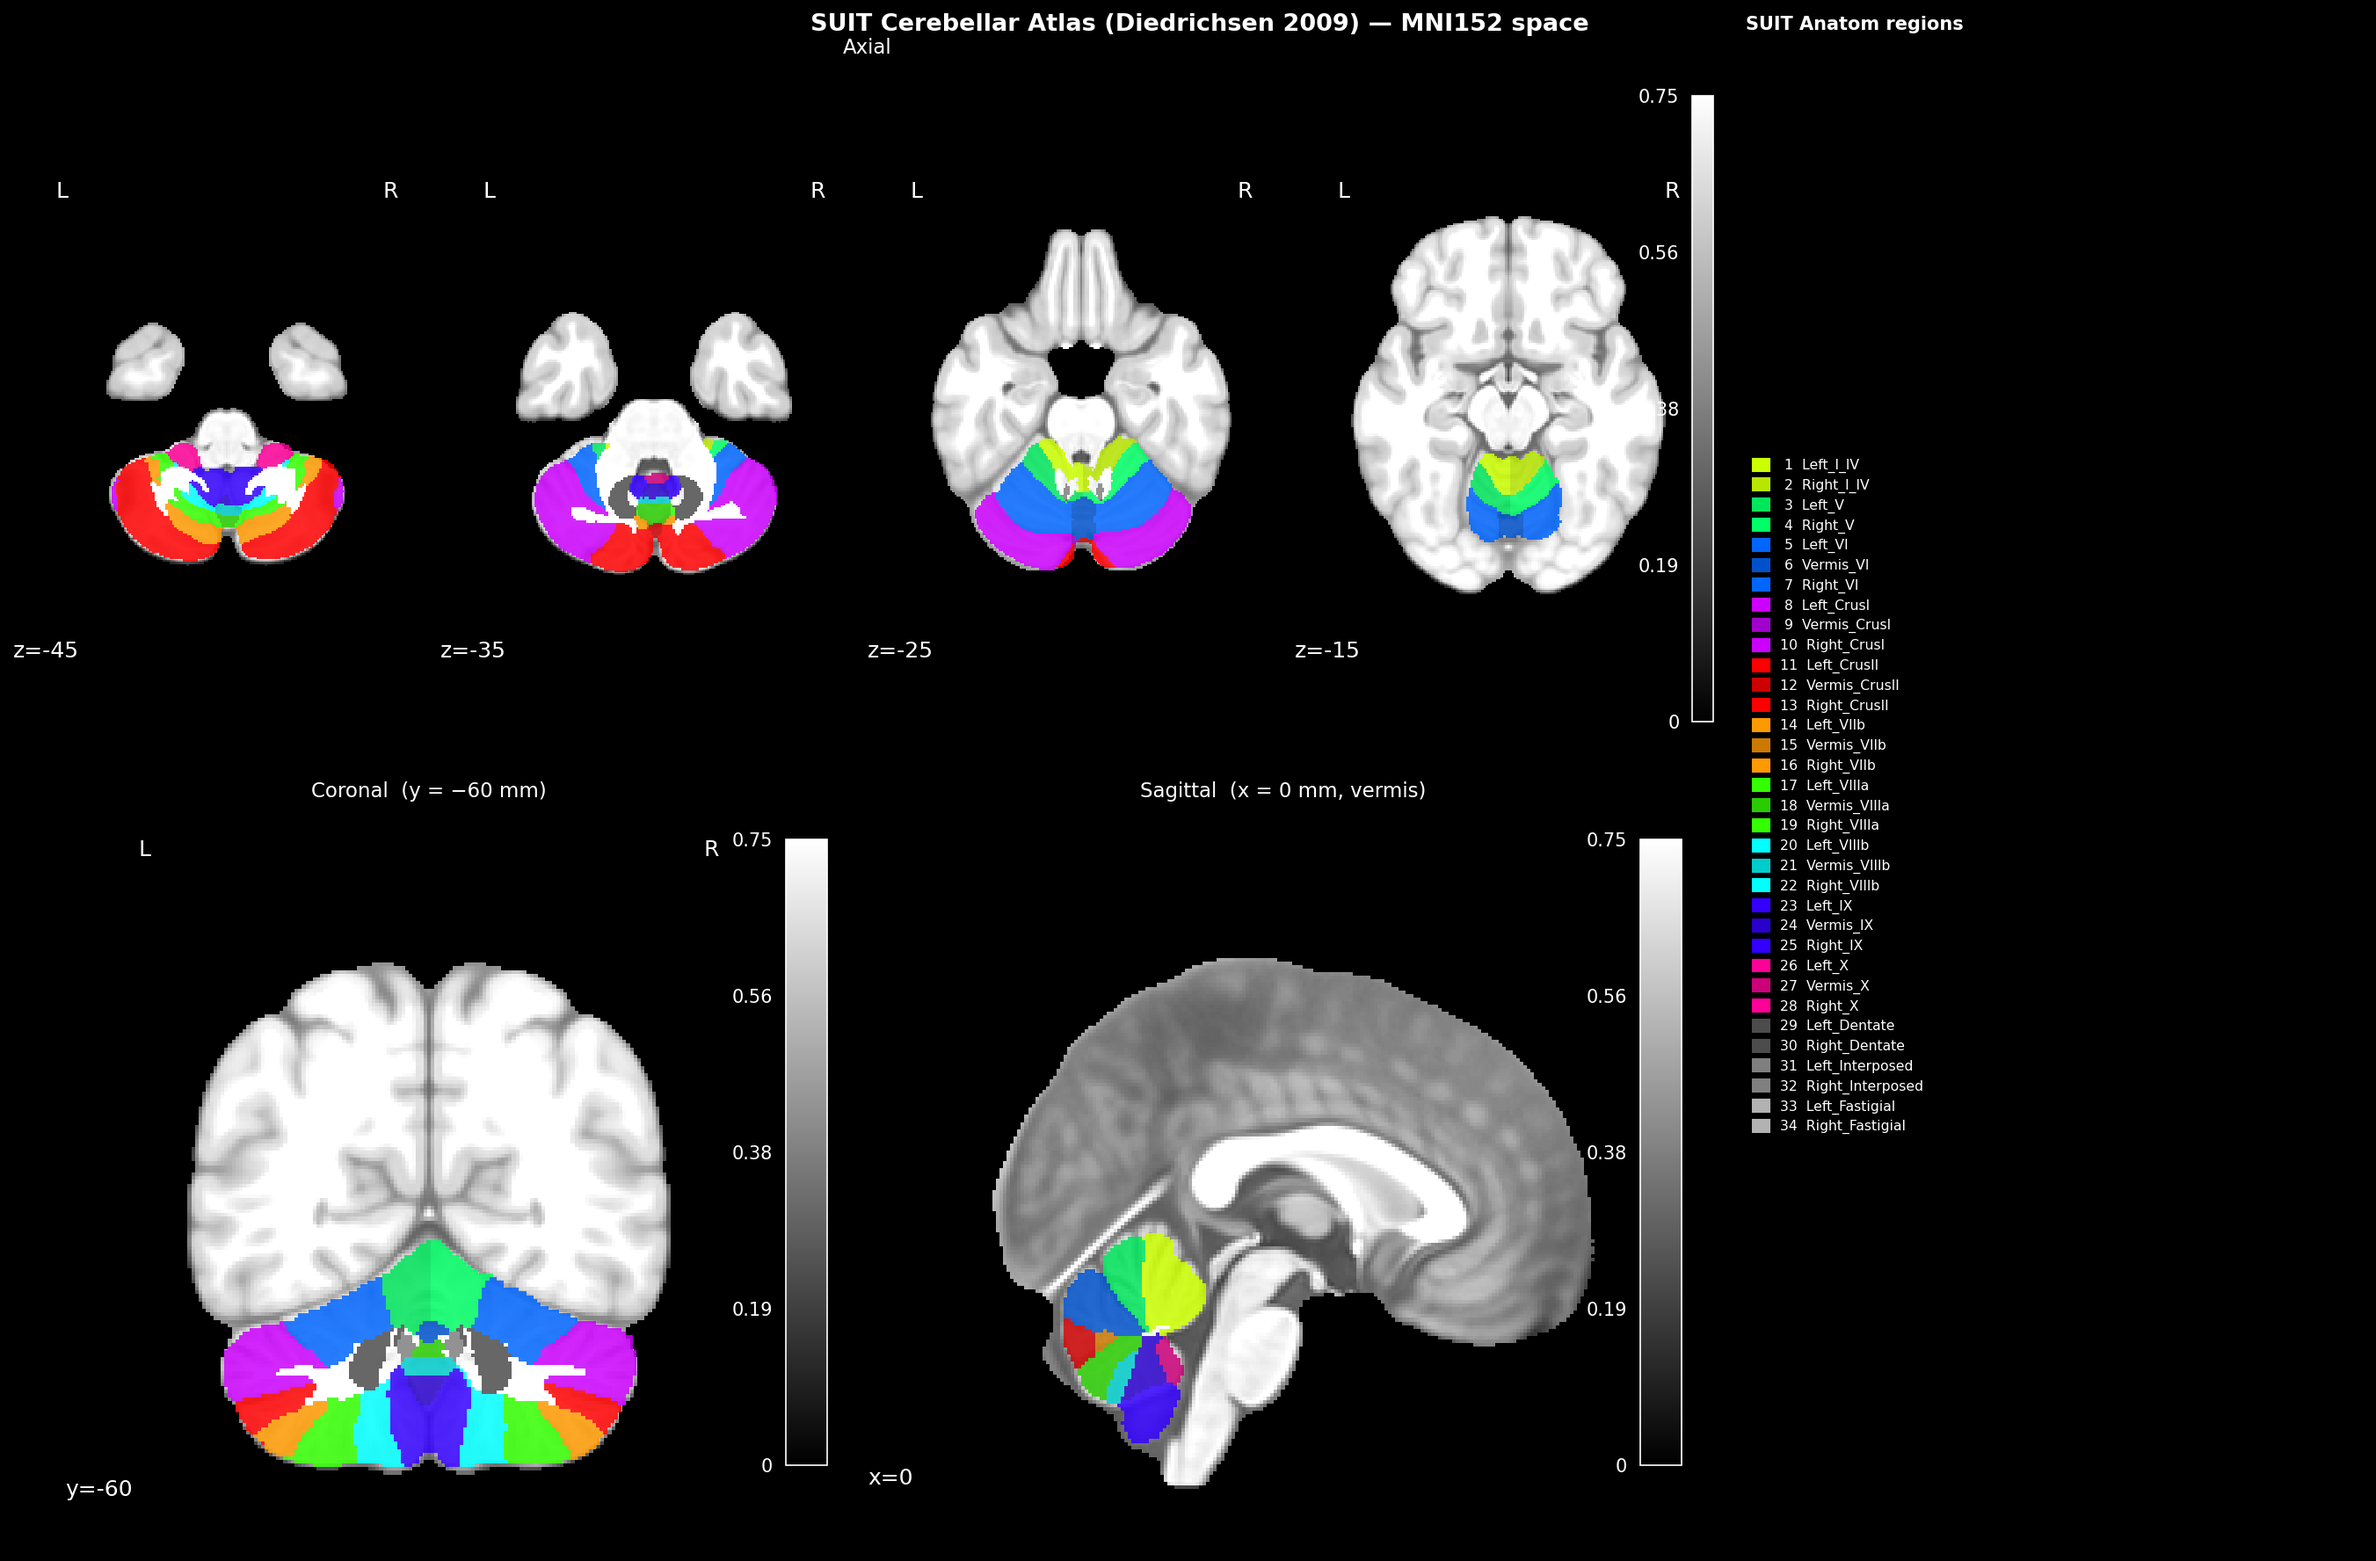
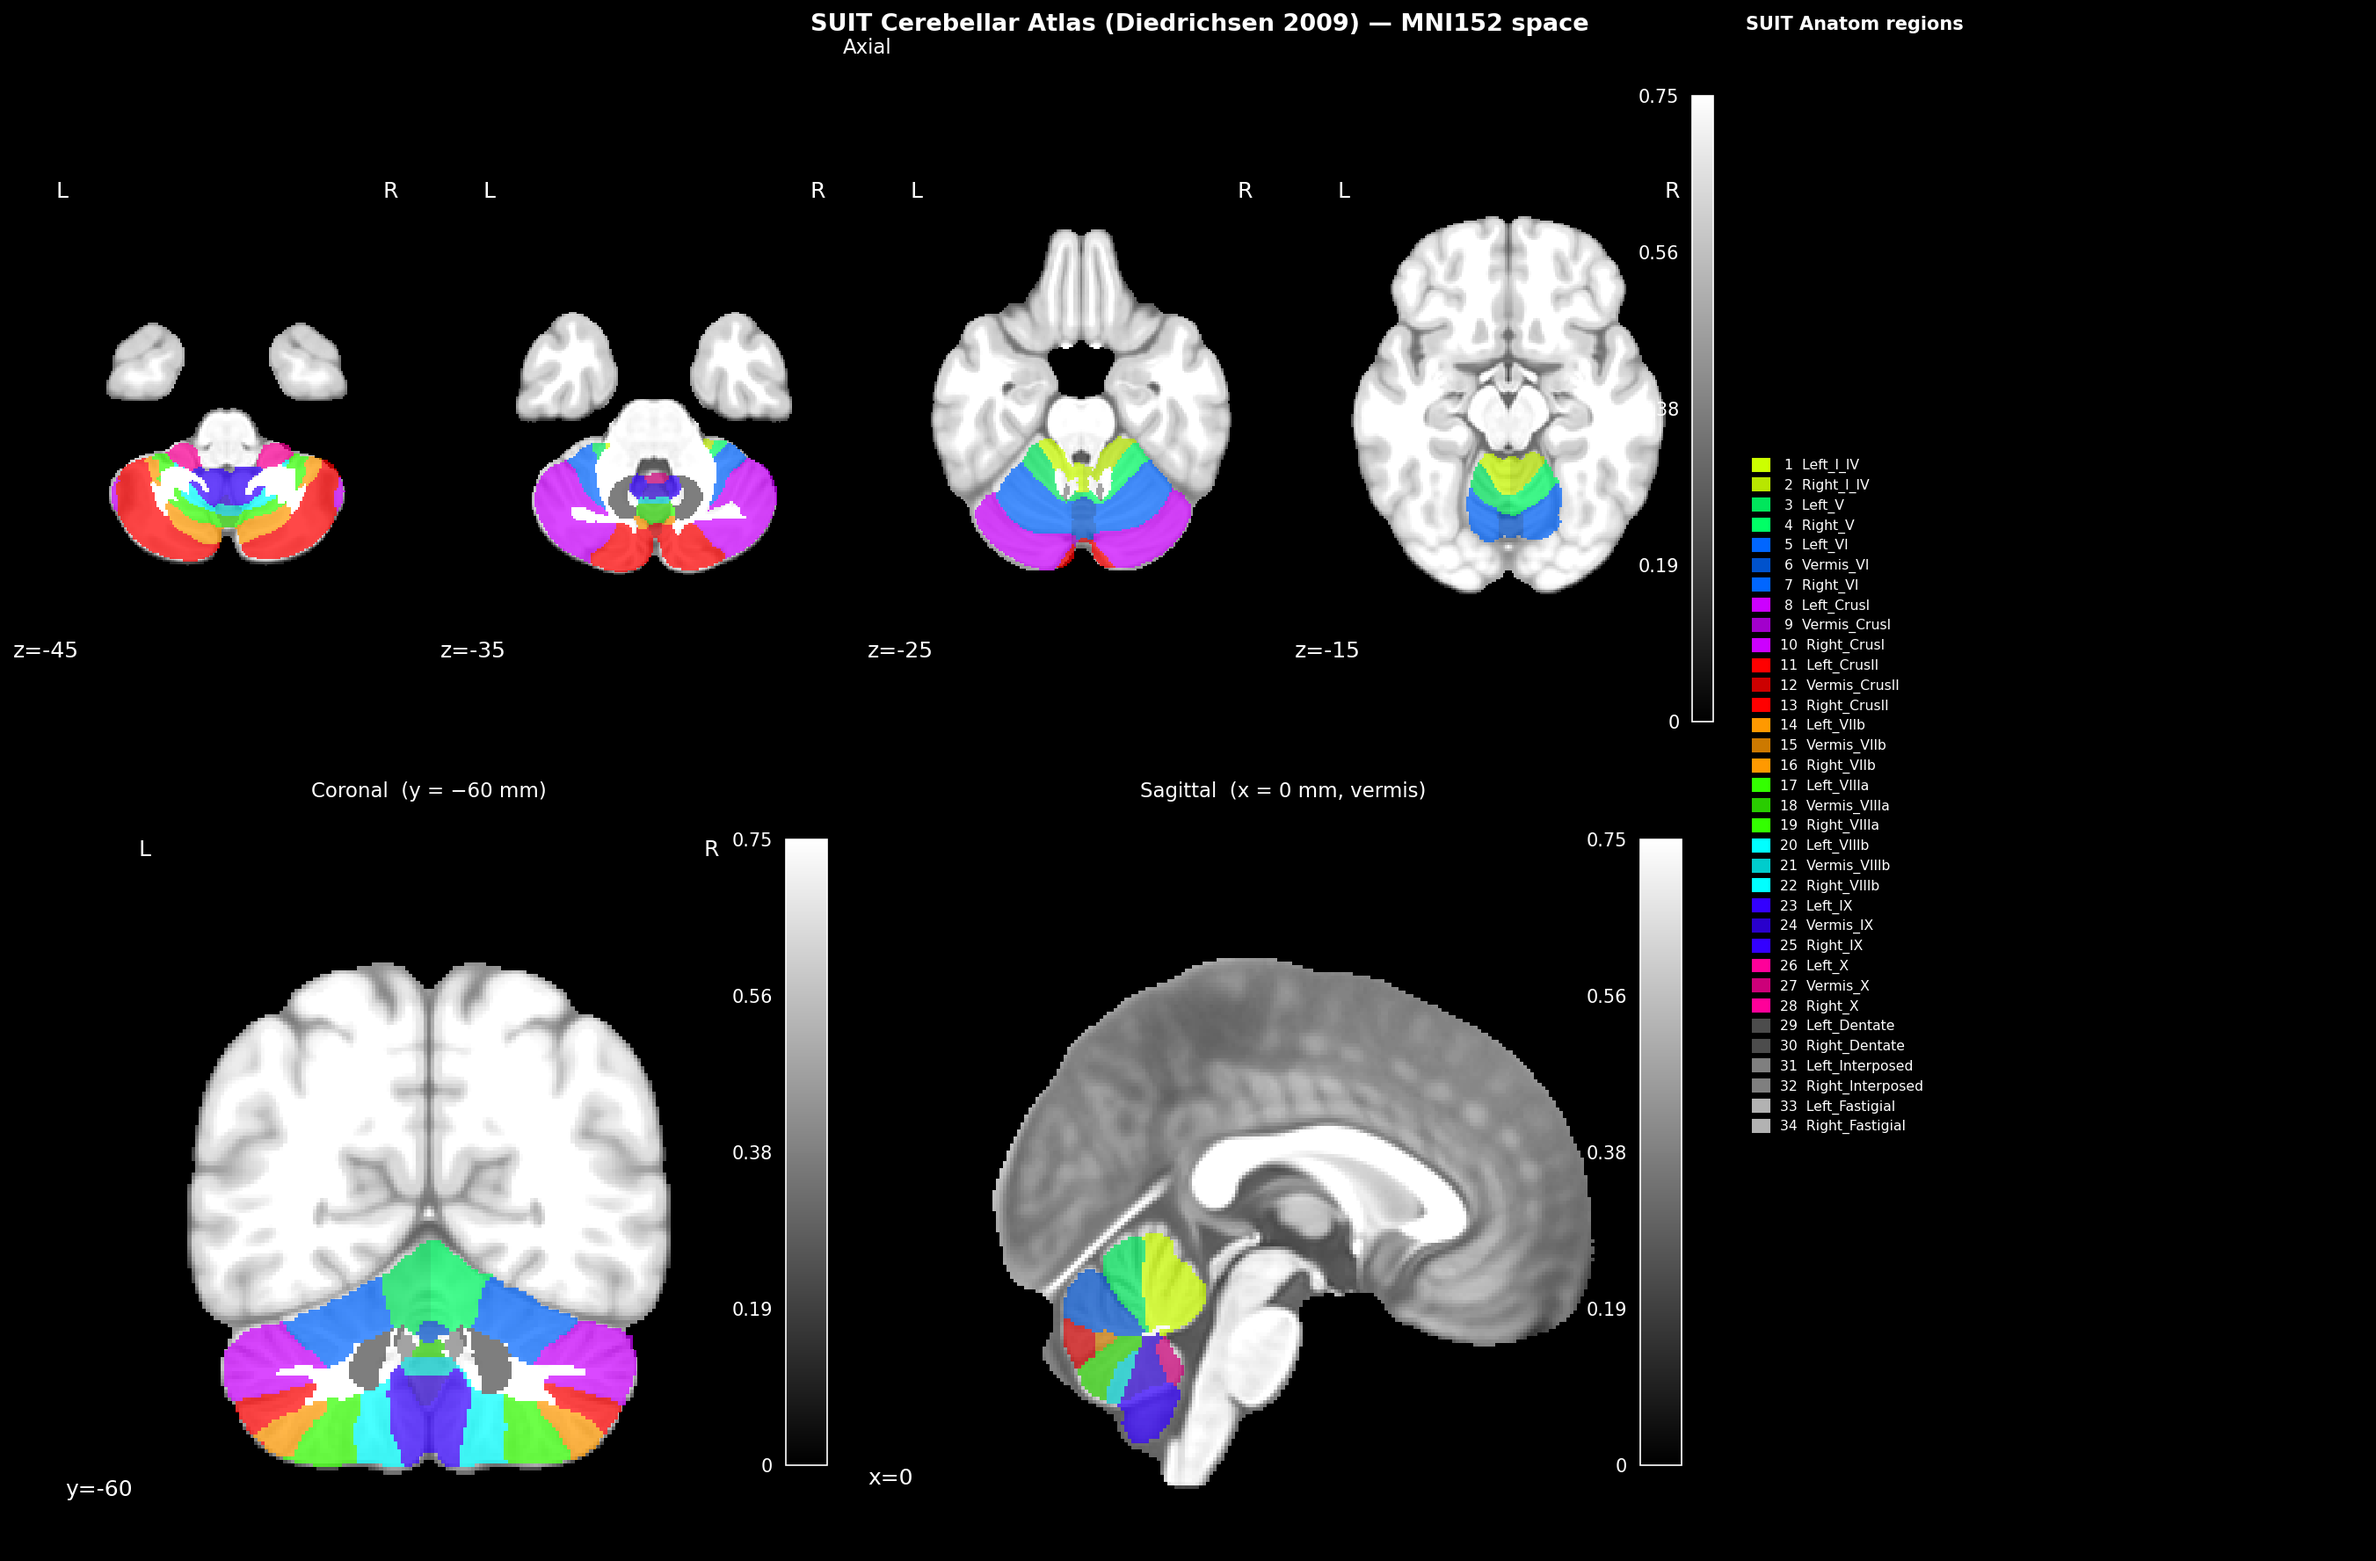
fix transparency

diff --git a/scripts/plot_atlas.py b/scripts/plot_atlas.py
@@ -130,7 +130,7 @@ def main():
         cmap=cmap,
         vmin=0,
         vmax=len(entries),
-        transparency=0.15,
+        transparency=0.85,
     )
     ax_axial.set_title("Axial", color="white", fontsize=11, pad=4)
 
@@ -151,7 +151,7 @@ def main():
         cmap=cmap,
         vmin=0,
         vmax=len(entries),
-        transparency=0.15,
+        transparency=0.85,
     )
     ax_cor.set_title("Coronal  (y = −60 mm)", color="white", fontsize=11, pad=4)
 
@@ -172,7 +172,7 @@ def main():
         cmap=cmap,
         vmin=0,
         vmax=len(entries),
-        transparency=0.15,
+        transparency=0.85,
     )
     ax_sag.set_title("Sagittal  (x = 0 mm, vermis)", color="white", fontsize=11, pad=4)
 
